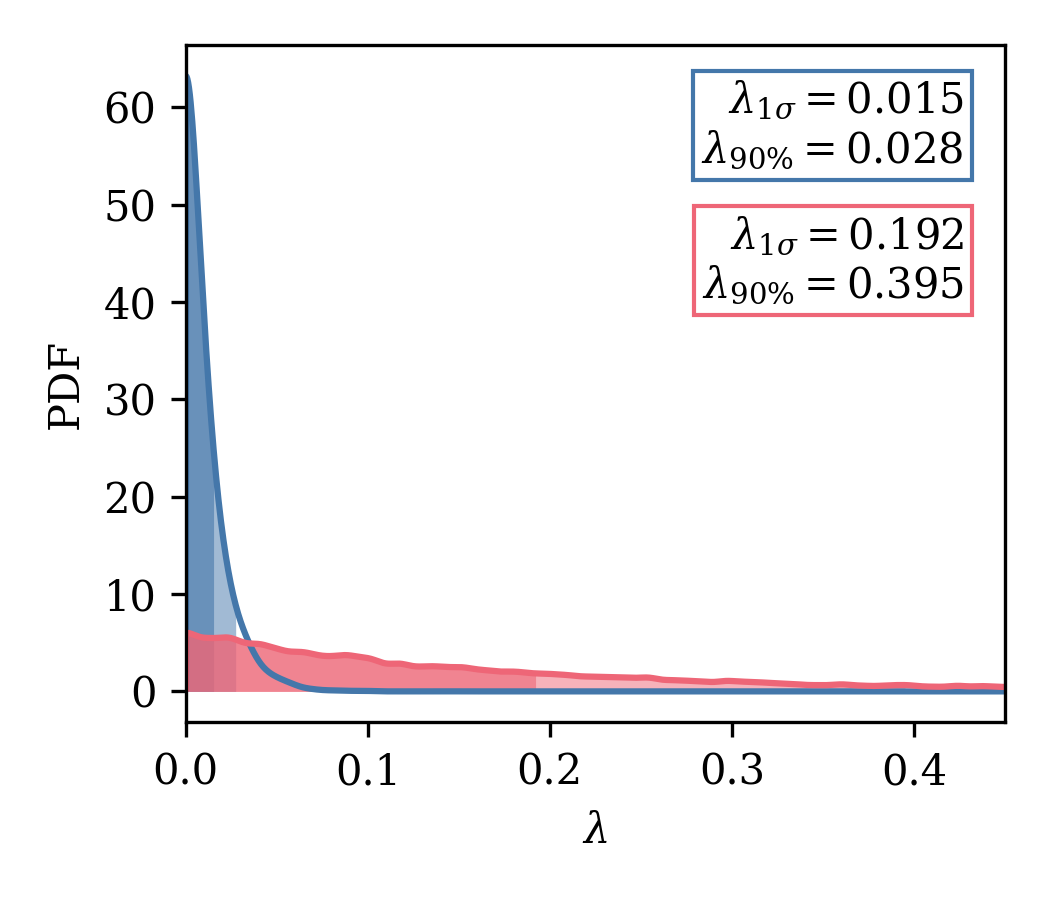
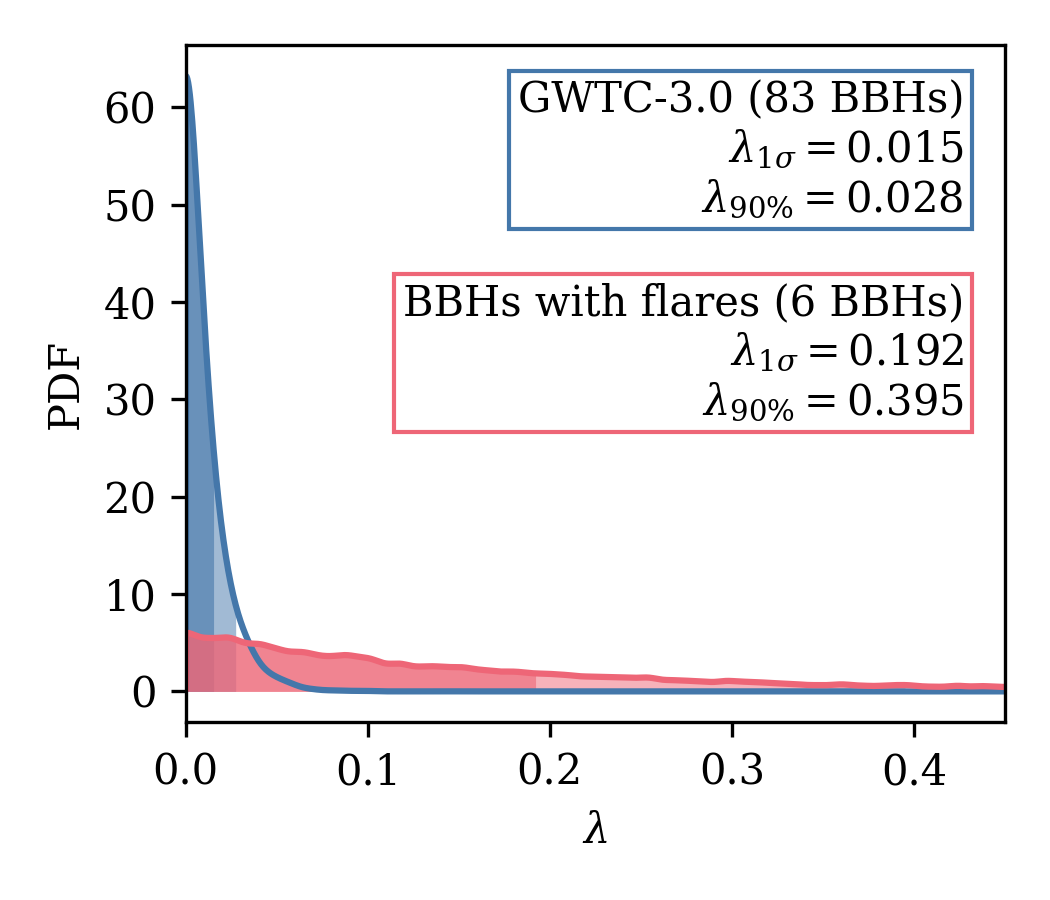
Updated plots

Changed region(s): [[0.3657, 0.0622, 0.9448, 0.4978]]

diff --git a/plots/lambda_posteriors/lambda_posteriors.py b/plots/lambda_posteriors/lambda_posteriors.py
@@ -45,7 +45,7 @@ def plot_lambda_posterior(path, plot_kwargs={}, ax=None):
     else:
         quantstr = f"$\lambda = {peak:.3f}_{{- {lo:.3f}}}^{{+ {hi:.3f}}}$"
     # Plot
-    plot_kwargs["label"] += f": {quantstr}"
+    # plot_kwargs["label"] += f": {quantstr}"
     lines = ax.plot(x, pdf, rasterized=True, **plot_kwargs)
     ax.fill_between(
         x,
@@ -76,13 +76,13 @@ def plot_lambda_posterior(path, plot_kwargs={}, ax=None):
         rasterized=True,
     )
     directory = float(pa.basename(path))
-    m = (0.75 - 0.95) / (18 - 11)
+    m = (0.65 - 0.95) / (18 - 11)
     b = 0.95 - m * 11
     ax.text(
         0.95,
         b + m * directory,
         # 0.95,
-        f"$\lambda_{{1 \sigma}} = {hi:.3f}$\n$\lambda_{{90\%}} = {np.quantile(samples, 0.9):.3f}$",
+        f"{plot_kwargs['label']}\n$\lambda_{{1 \sigma}} = {hi:.3f}$\n$\lambda_{{90\%}} = {np.quantile(samples, 0.9):.3f}$",
         ha="right",
         va="top",
         transform=ax.transAxes,
@@ -126,7 +126,11 @@ def plot_lambda_posteriors(paths):
     )
     # Plot
     for path, label in zip(
-        paths, [r"1.06 $\times$ 10$^{-8}$", r"4.79 $\times$ 10$^{-8}$"]
+        paths,
+        [
+            "GWTC-3.0 (83 BBHs)",
+            "BBHs with flares (6 BBHs)",
+        ],
     ):
         plot_lambda_posterior(
             # plot_lambda_posterior_hist(
